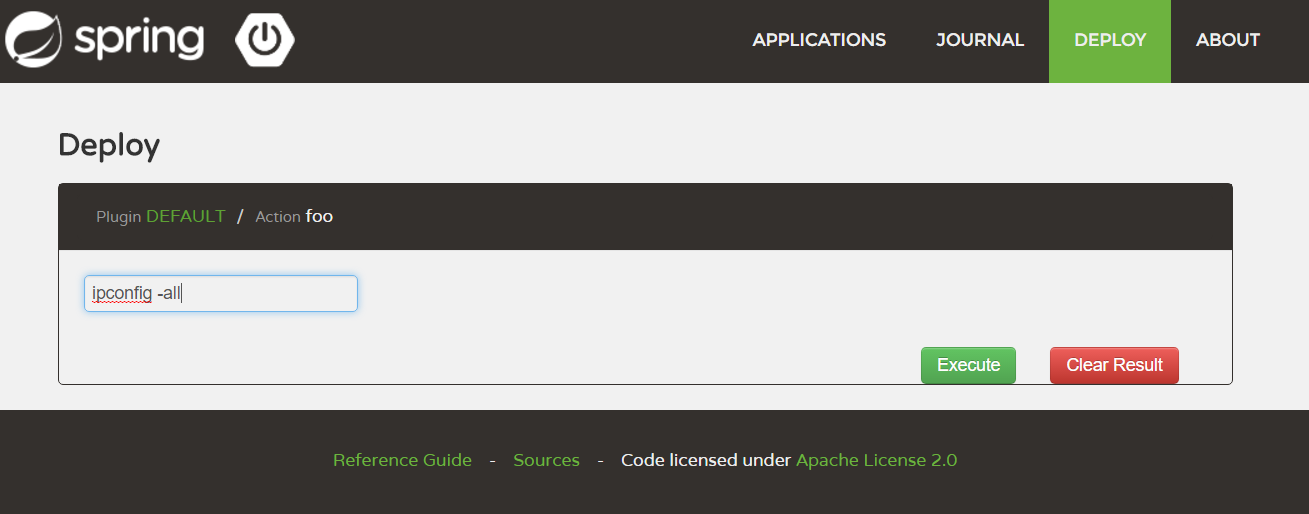
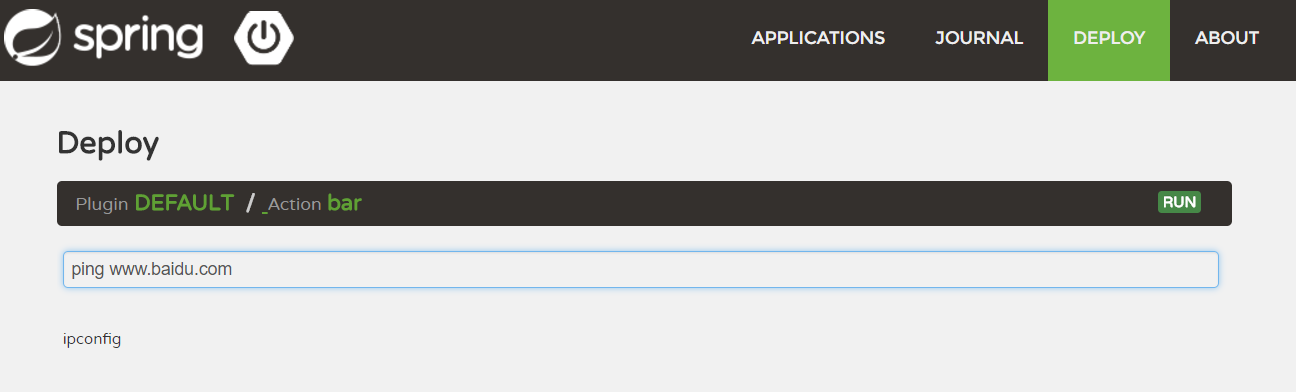
update readme.md

diff --git a/README.md b/README.md
@@ -12,6 +12,19 @@ deploy-spring-boot-admin is a plugin for spring-boot-admin
 ![DeployPage After Execute](/images/deployPageAfterExecute.png?raw=true)
 *Page after executing deploy actions*
 
+## sample-project
+
+You can add custom plugins to deploy-spring-boot-admin like sample-project.
+
+see [sample](/sample)
+
+![SamplePage](/images/samplePage.png?raw=true)
+*Sample-project Page*
+
+![SamplePage After Running](/images/samplePageAfterRunningCustomAction.png?raw=true)
+*Sample-project Page after executing custom action*
+
+
 ## quick-start
 
 Add below dependencies to your pom
@@ -29,7 +42,7 @@ Add below dependencies to your pom
     <dependency>
       <groupId>io.github.jianzhichun</groupId>
       <artifactId>deploy-spring-boot-admin</artifactId>
-      <version>0.1.3</version>
+      <version>0.1.6</version>
     </dependency>
 ```
 Meanwhile, you can add spring-boot-starter-mail for mail-notification function
